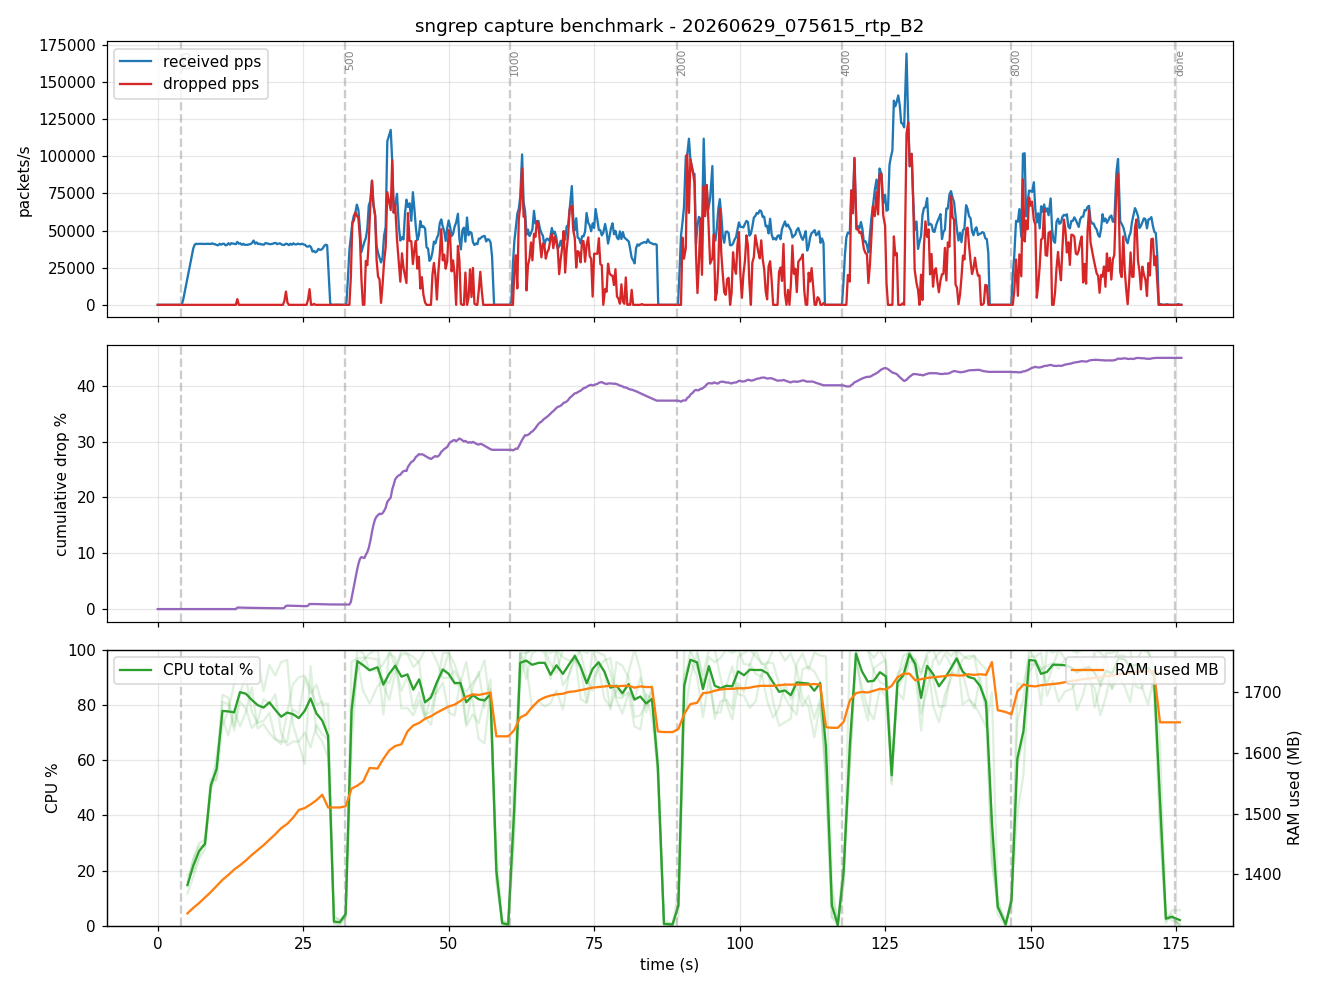
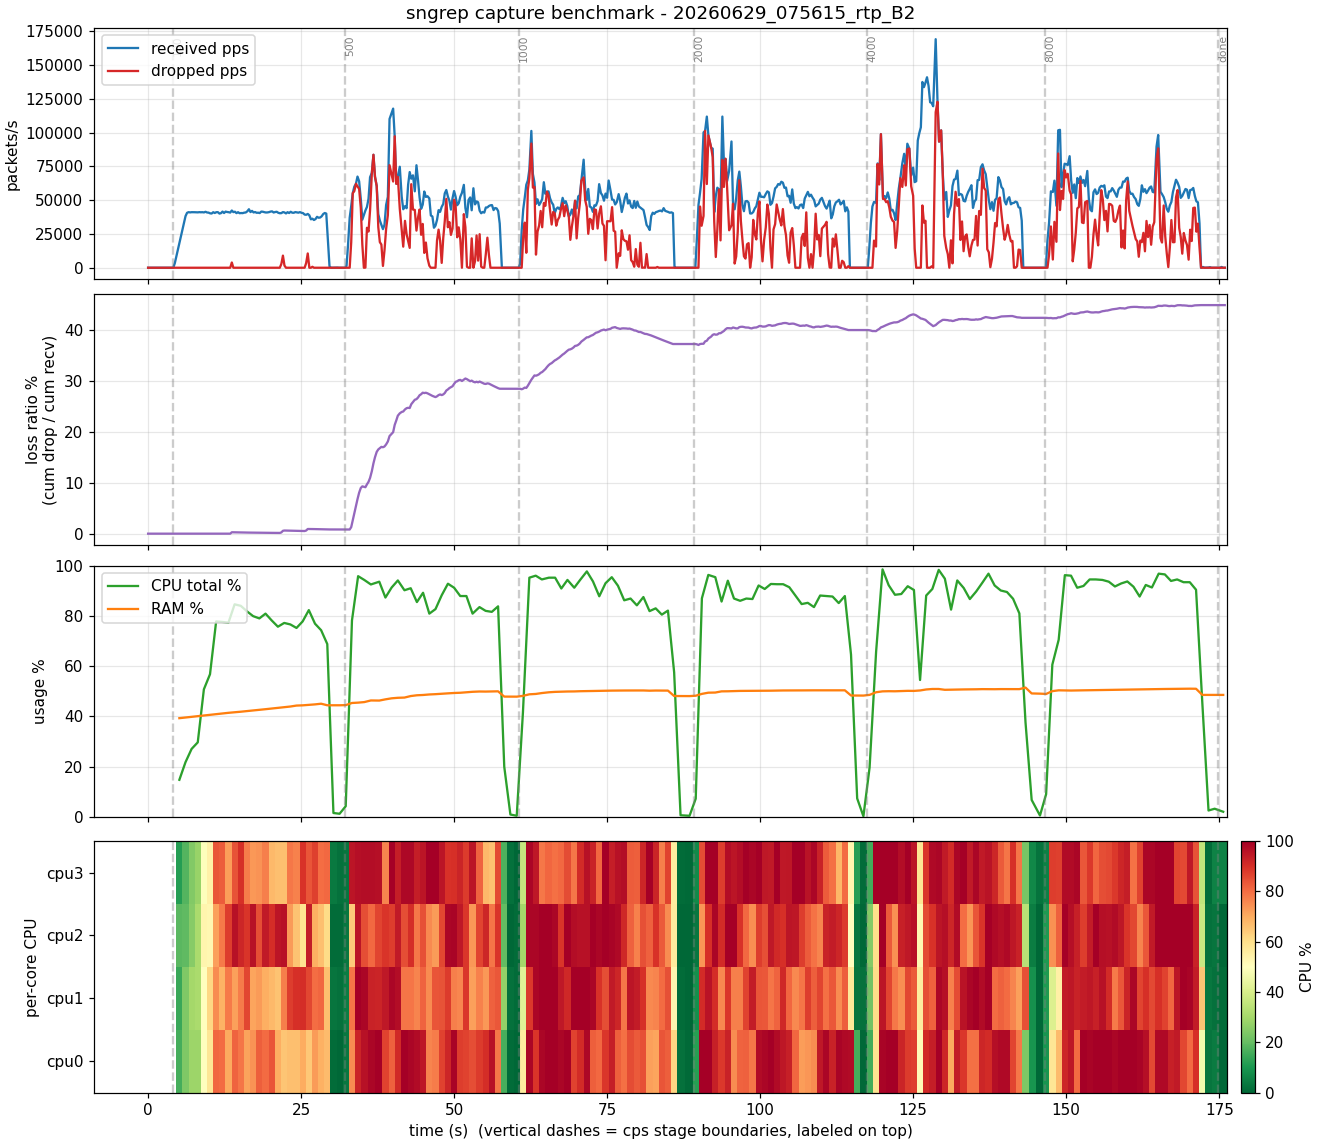
plot: 파싱/그룹 분리 + 포화선 추가, RTP 그래프 갱신, README 5장 결론만 남기고 그래프/근거는 RESULTS로

diff --git a/bench/plot_profile.py b/bench/plot_profile.py
@@ -5,10 +5,11 @@
 
 Prints a table (total / share% / avg-per-packet) and writes:
   - <dir>/profile_summary.txt  (the table)
-  - <dir>/profile.png          (stacked time over the ramp + share bar)
+  - <dir>/profile.png          (busy ms over the ramp + share bar)
 
-If one stage (e.g. parse+group) dominates, that is what the new architecture
-must parallelize.
+The parse+group stage is split into SIP parse vs grouping when the run carries
+the sub-timers (sip_parse_ns / sip_group_ns). Whichever stage dominates is what
+the new architecture must parallelize.
 """
 import sys
 import csv
@@ -17,14 +18,35 @@ import matplotlib
 matplotlib.use('Agg')
 import matplotlib.pyplot as plt
 
-# label, ns column, count column (lock wait is charged per parse call)
-STAGES = [
-    ('IP reasm', 'reasm_ip_ns', 'reasm_ip_cnt'),
-    ('TCP reasm', 'reasm_tcp_ns', 'reasm_tcp_cnt'),
-    ('lock wait (UI/contention)', 'lockwait_ns', 'parse_cnt'),
-    ('parse+group', 'parse_ns', 'parse_cnt'),
-    ('dump', 'dump_ns', 'dump_cnt'),
-]
+
+def build_stages(header):
+    # label, ns column, count column. "parse_other" is derived below.
+    if 'sip_parse_ns' in header and 'sip_group_ns' in header:
+        return [
+            ('IP reasm', 'reasm_ip_ns', 'reasm_ip_cnt'),
+            ('TCP reasm', 'reasm_tcp_ns', 'reasm_tcp_cnt'),
+            ('lock wait (UI/contention)', 'lockwait_ns', 'parse_cnt'),
+            ('SIP parse', 'sip_parse_ns', 'parse_cnt'),
+            ('grouping', 'sip_group_ns', 'parse_cnt'),
+            ('parse+group other', 'parse_other', 'parse_cnt'),
+            ('dump', 'dump_ns', 'dump_cnt'),
+        ]
+    return [
+        ('IP reasm', 'reasm_ip_ns', 'reasm_ip_cnt'),
+        ('TCP reasm', 'reasm_tcp_ns', 'reasm_tcp_cnt'),
+        ('lock wait (UI/contention)', 'lockwait_ns', 'parse_cnt'),
+        ('parse+group', 'parse_ns', 'parse_cnt'),
+        ('dump', 'dump_ns', 'dump_cnt'),
+    ]
+
+
+def stage_ns(row, col):
+    # "parse_other" = whole parse+group stage minus the SIP parse / grouping
+    # sub-timers (payload copy, allocation, etc.)
+    if col == 'parse_other':
+        return max(int(row['parse_ns']) - int(row['sip_parse_ns'])
+                   - int(row['sip_group_ns']), 0)
+    return int(row[col])
 
 
 def main():
@@ -42,31 +64,21 @@ def main():
         print("profile.csv too short")
         return
 
+    stages = build_stages(rows[0].keys())
     last = rows[-1]
-    totals = {lab: int(last[nsc]) for lab, nsc, _ in STAGES}
-    counts = {lab: int(last[cc]) for lab, _, cc in STAGES}
+    totals = {lab: stage_ns(last, nsc) for lab, nsc, _ in stages}
+    counts = {lab: int(last[cc]) for lab, _, cc in stages}
     grand = sum(totals.values()) or 1
 
     # --- text summary table ---
     lines = ["stage                         total(s)   share%    avg/pkt",
              "-------------------------------------------------------------"]
-    for lab, _, _ in STAGES:
+    for lab, _, _ in stages:
         tot = totals[lab]
         cnt = counts[lab]
         share = 100.0 * tot / grand
         avg_us = (tot / cnt / 1000.0) if cnt else 0.0
         lines.append("%-28s %8.2f %8.1f %9.2f us" % (lab, tot / 1e9, share, avg_us))
-    # parse vs group drill-down (inside the parse+group stage), if instrumented
-    if 'sip_parse_ns' in last and 'sip_group_ns' in last:
-        sp, sg = int(last['sip_parse_ns']), int(last['sip_group_ns'])
-        stage = totals['parse+group'] or 1
-        other = max(stage - sp - sg, 0)
-        lines += ["",
-                  "within parse+group stage (%.1fs) [%% of full stage]:" % (stage / 1e9),
-                  "  SIP parse   %8.2f s   %5.1f%%" % (sp / 1e9, 100.0 * sp / stage),
-                  "  grouping    %8.2f s   %5.1f%%" % (sg / 1e9, 100.0 * sg / stage),
-                  "  other       %8.2f s   %5.1f%%" % (other / 1e9, 100.0 * other / stage)]
-
     summary = "\n".join(lines)
     print(summary)
     with open(os.path.join(d, 'profile_summary.txt'), 'w') as f:
@@ -76,26 +88,34 @@ def main():
     t0 = int(rows[0]['ts_unix_ms'])
     t = [(int(r['ts_unix_ms']) - t0) / 1000.0 for r in rows[1:]]
     series = []
-    for lab, nsc, _ in STAGES:
-        vals = [max(int(rows[i][nsc]) - int(rows[i - 1][nsc]), 0) / 1e6 for i in range(1, len(rows))]
+    for lab, nsc, _ in stages:
+        vals = [max(stage_ns(rows[i], nsc) - stage_ns(rows[i - 1], nsc), 0) / 1e6
+                for i in range(1, len(rows))]
         series.append(vals)
 
     fig, ax = plt.subplots(2, 1, figsize=(12, 8))
-    ax[0].stackplot(t, series, labels=[s[0] for s in STAGES])
-    ax[0].set_ylabel('busy ms per interval')
+    ax[0].stackplot(t, series, labels=[s[0] for s in stages])
+    # sampling interval: if the stacked busy time reaches it, one core is saturated
+    if len(t) > 1:
+        interval_ms = 1000.0 * sorted(t[i] - t[i - 1] for i in range(1, len(t)))[len(t) // 2]
+        ax[0].axhline(interval_ms, color='gray', ls='--', lw=1,
+                      label='interval (1 core saturated)')
+    ax[0].set_ylabel('capture-thread busy ms / interval')
     ax[0].set_xlabel('time (s)')
     ax[0].legend(loc='upper left', fontsize=8)
     ax[0].set_title('Capture-thread time breakdown - ' + os.path.basename(os.path.normpath(d)))
     ax[0].grid(True, alpha=.3)
 
-    labels = [s[0] for s in STAGES]
+    labels = [s[0] for s in stages]
     pct = [100.0 * totals[l] / grand for l in labels]
     ax[1].barh(labels, pct, color='tab:blue')
-    ax[1].set_xlabel('% of total stage time')
+    ax[1].set_xlabel('% of total capture-thread time')
+    ax[1].invert_yaxis()
     for i, l in enumerate(labels):
         cnt = counts[l]
         avg_us = (totals[l] / cnt / 1000.0) if cnt else 0.0
-        ax[1].text(pct[i], i, '  %.1f%%  (%.1f us/pkt)' % (pct[i], avg_us), va='center', fontsize=8)
+        ax[1].text(pct[i], i, '  %.1f%%  (%.1f us/pkt)' % (pct[i], avg_us),
+                   va='center', fontsize=8)
     ax[1].grid(True, axis='x', alpha=.3)
 
     fig.tight_layout()

diff --git a/README.md b/README.md
@@ -94,22 +94,12 @@ sudo BUFFER_MB=16  ./bench/run_bench.sh
 
 ## 5. 결과
 
-초당 통화 수만 100에서 8000 cps까지 단계적으로 올린 signaling 측정이다(나머지 변수는 기본값).
-트래픽 종류·유지시간·링버퍼 크기를 바꾼 결과는 RESULTS.md에 있다.
+- sngrep은 고부하에서 패킷을 드롭한다. 전부 커널 캡처 링버퍼 드롭이고 NIC 드롭은 0이다.
+- 버퍼를 키워도 드롭이 지속된다.
+- 코어와 RAM에 여유가 있는데도 드롭한다. 단일 스레드 한계다.
+- 캡처 스레드 시간의 90%가 파싱+그룹화이고, 병목은 SIP 파싱이다.
 
-![signaling 측정](bench/results/20260629_045659_signaling_B2/report.png)
-
-위에서부터 수신·드롭 패킷량, 누적 손실률, CPU·메모리 사용률, 코어별 CPU다. 드롭은 2000 cps
-구간부터 시작하고, 전부 커널 캡처 링버퍼(ps_drop)에서 나며 NIC 드롭(ps_ifdrop)은 0이다.
-드롭이 나는 동안에도 CPU 전체는 60~68%에 그치고(한 코어만 100%에 닿는다) RAM은 평평하다.
-자원이 남는데 드롭한다.
-
-![캡처 스레드 시간 구성](bench/results/20260629_073854_signaling_B2/profile.png)
-
-캡처 스레드가 한 패킷을 처리하며 각 단계에 쓴 시간 구성이다. 90%가 파싱+그룹화이고 그 안에서
-파싱이 약 73%다. 재조립·락·dump는 미미하다. 병목은 파싱이다.
-
-버퍼 스윕(2/16/64MB), RTP, 정확한 수치는 [RESULTS.md](RESULTS.md)에 있다.
+그래프, 근거, 수치, RTP까지 전체 리포트는 [RESULTS.md](RESULTS.md)에 있다.
 
 ## 6. 라이선스
 